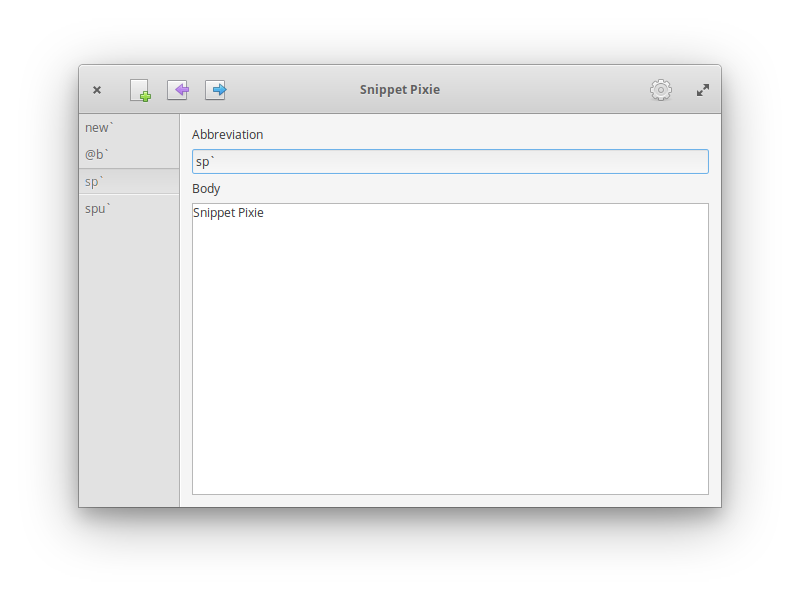
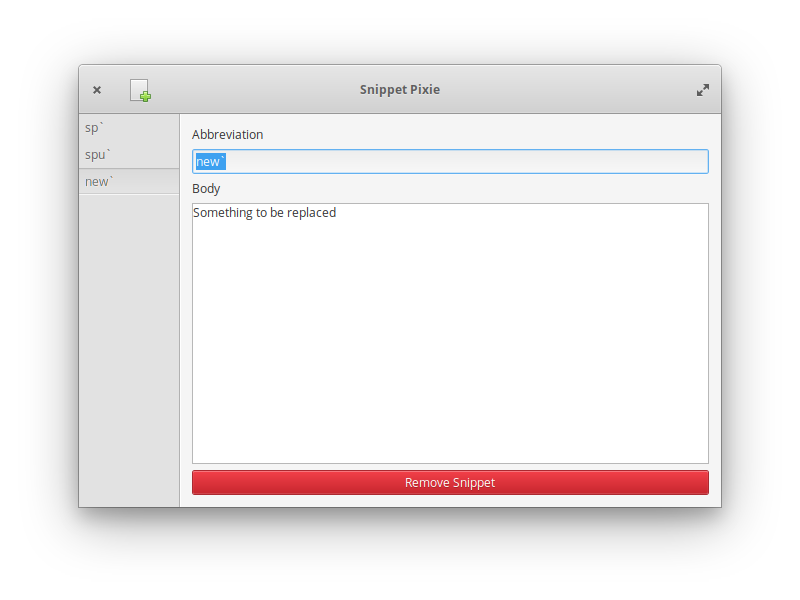
Preparation for 1.0b1.

diff --git a/README.md b/README.md
@@ -1,15 +1,33 @@
 # Snippet Pixie
 [![Get it on AppCenter](https://appcenter.elementary.io/badge.svg)](https://appcenter.elementary.io/com.bytepixie.snippetpixie)
 
-Your little snippet helper.
+Your little expandable snippet helper.
 
 Save your often used snippets and then expand them whenever you type their abbreviation.
 
 For example:- "spr`" expands to "Snippet Pixie rules!"
 
-![Snippet Pixie Welcome Screen](data/screenshot.png?raw=true)
+![Snippet Pixie Edit Screen](data/screenshot.png?raw=true)
 
-![Snippet Pixie Edit Screen](data/screenshot-2.png?raw=true)
+![Snippet Pixie Welcome Screen](data/screenshot-2.png?raw=true)
+
+## Knonw Issues
+
+* Only works on Elementary OS
+* Only works with accessible applications with simple(ish) text entry
+* Does not work with Electron based apps (probably because they have "very limited" support for ATK on Linux)
+* Have to add `com.bytepixie.snippetpixie --start` to System Settings -> Startup to enable on login
+* Kinda a bit flakey (BETA BETA BETA)
+
+## Roadmap
+
+* Automatically add to Startup apps
+* Undo/Redo of snippet edits
+* Export/Import snippets
+* Date/Time placeholders
+* Snippet search
+* Group snippets?
+* Rich text?
 
 ## Building, Testing, and Installation
 
